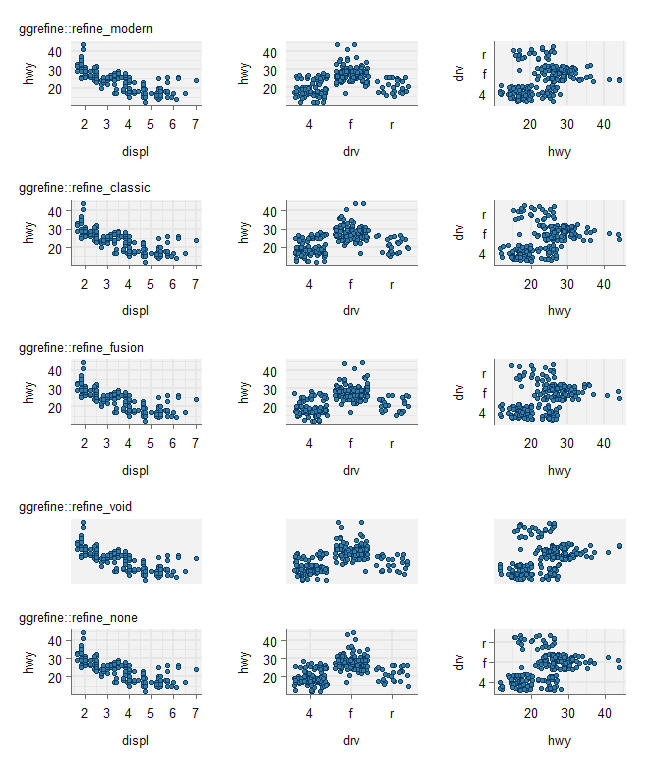
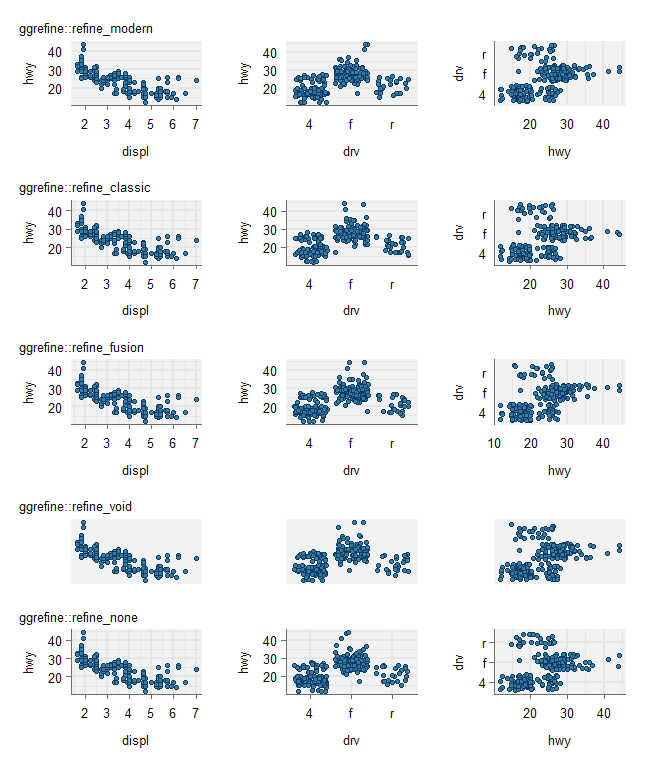
Update

diff --git a/NEWS.md b/NEWS.md
@@ -1,6 +1,6 @@
 # ggrefine (development)
 
-* Change panel grey in `theme_grey` to "grey95".
+* Change panel grey in `theme_grey` to "grey92".
 
 # ggrefine 0.2.0
 
